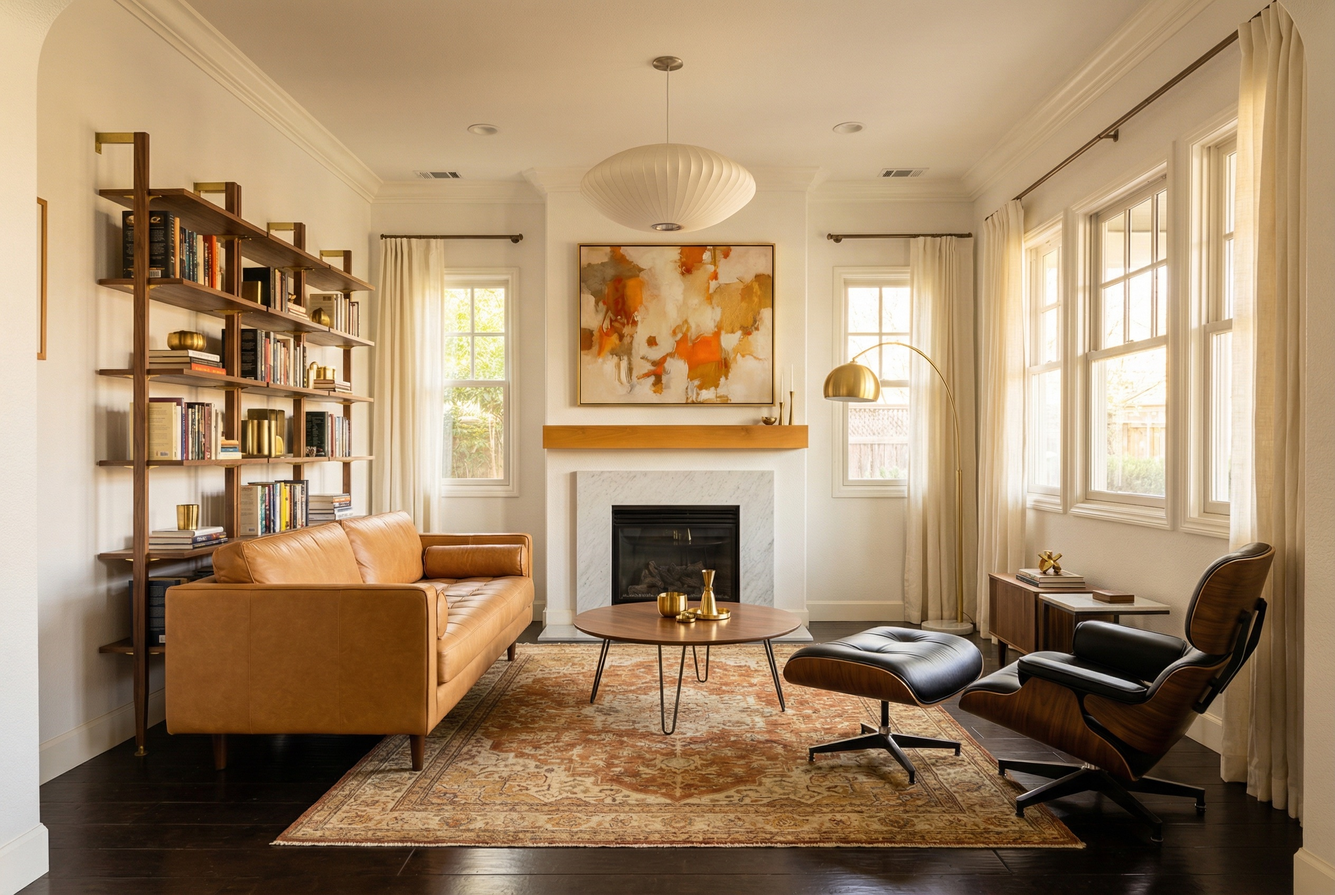
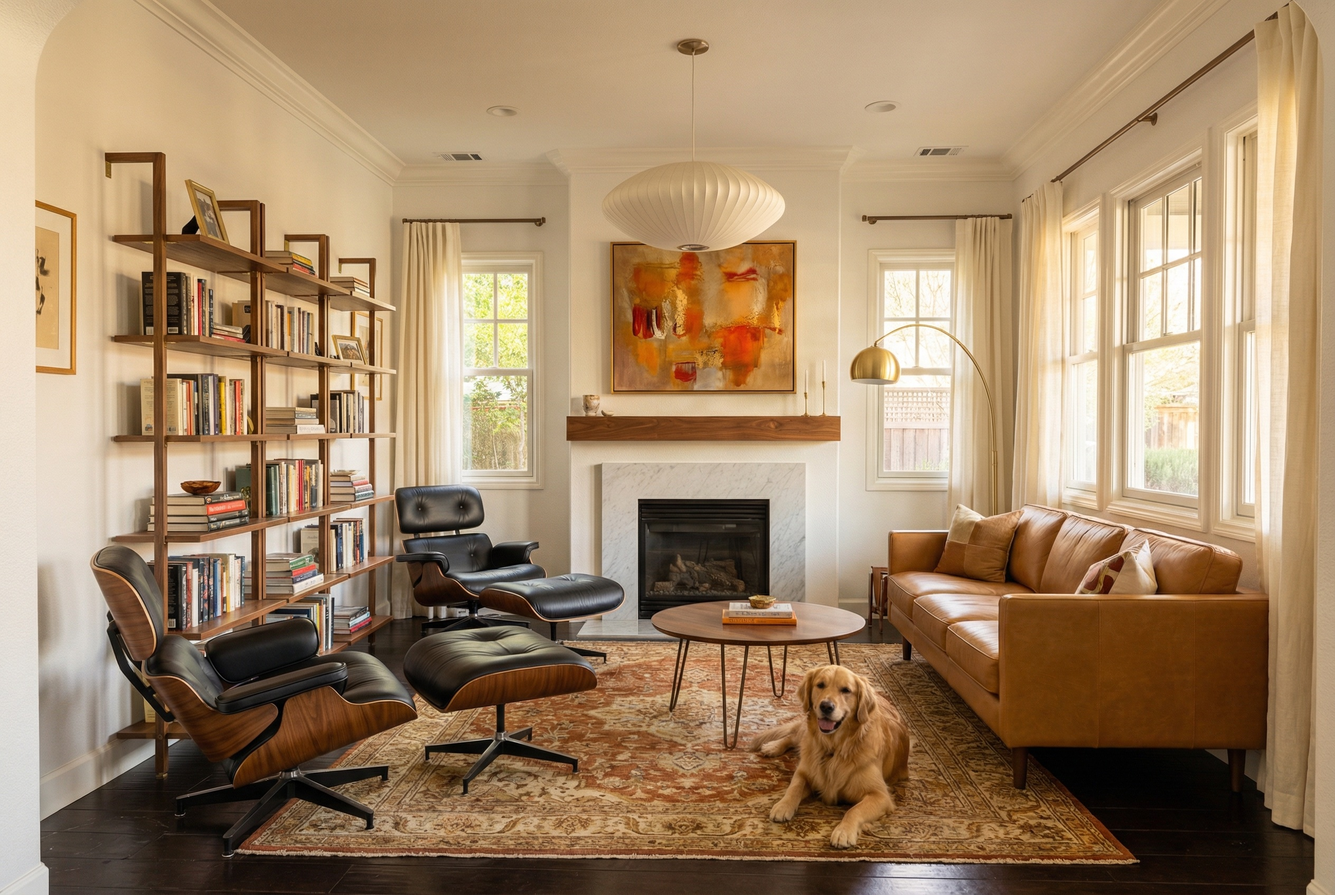
Add Cooper the golden retriever to all redesign concepts
Regenerated all 4 interior design images to include Cooper in each scene.
Updated descriptions and prompts to reflect his presence.

diff --git a/index.html b/index.html
@@ -258,11 +258,11 @@
         <div class="concept-details">
             <div>
                 <h3>Design Goals</h3>
-                <p>Transform the room into a warm, sophisticated space inspired by the 1950s&ndash;60s design movement. The focus is on rich natural materials&mdash;walnut wood, camel leather, and brass&mdash;paired with warm earth-toned textiles. The iconic Eames lounge chair becomes the statement piece, while a Nelson Bubble pendant replaces the existing fixture. Open walnut shelving creates a more curated, gallery-like feel. The overall palette shifts from cool grays to warm golds, rusts, and cognacs, making the room feel like a timeless retreat.</p>
+                <p>Transform the room into a warm, sophisticated space inspired by the 1950s&ndash;60s design movement. The focus is on rich natural materials&mdash;walnut wood, camel leather, and brass&mdash;paired with warm earth-toned textiles. The iconic Eames lounge chair becomes the statement piece, while a Nelson Bubble pendant replaces the existing fixture. Open walnut shelving creates a more curated, gallery-like feel. The overall palette shifts from cool grays to warm golds, rusts, and cognacs, with Cooper lounging happily by the fireplace on a vintage Persian rug.</p>
             </div>
             <div>
                 <h3>Prompt Used</h3>
-                <div class="prompt-text">Redesign this living room in a warm mid-century modern style. The room has the same layout and architecture - dark hardwood floors, marble fireplace with wood mantel, bay windows with crown molding, and a large bookshelf wall on the left. Replace the gray sofa with a rich camel-colored leather sofa with clean lines and tapered walnut legs. Swap the dark blue wingback chair for a classic Eames-style lounge chair and ottoman in walnut shell with black leather cushions. Replace the Moroccan shag rug with a vintage Persian rug in warm rust, gold, and cream tones. Update the bookshelf to beautiful open walnut wood shelving with brass bracket accents. Replace the chandelier with a large Nelson Bubble pendant lamp. Add warm brass accents - a brass arc floor lamp, brass picture frames. Keep the marble fireplace, hang a large colorful abstract painting in warm oranges and golds above the mantel. Add a larger round walnut coffee table with hairpin legs. Warm, inviting afternoon golden light streaming through windows with cream linen curtains. No people or pets. Photorealistic interior design photography, wide angle lens, warm color temperature.</div>
+                <div class="prompt-text">Redesign this living room in a warm mid-century modern style. The room has the same layout and architecture - dark hardwood floors, marble fireplace with wood mantel, bay windows with crown molding, and a large bookshelf wall on the left. Replace the gray sofa with a rich camel-colored leather sofa with clean lines and tapered walnut legs. Swap the dark blue wingback chair for a classic Eames-style lounge chair and ottoman in walnut shell with black leather cushions. Replace the Moroccan shag rug with a vintage Persian rug in warm rust, gold, and cream tones. Update the bookshelf to beautiful open walnut wood shelving with brass bracket accents. Replace the chandelier with a large Nelson Bubble pendant lamp. Add warm brass accents - a brass arc floor lamp, brass picture frames. Keep the marble fireplace, hang a large colorful abstract painting in warm oranges and golds above the mantel. Add a larger round walnut coffee table with hairpin legs. A beautiful golden retriever is lounging happily on the rug near the fireplace, looking relaxed and content. Warm, inviting afternoon golden light streaming through windows with cream linen curtains. Photorealistic interior design photography, wide angle lens, warm color temperature.</div>
             </div>
         </div>
     </article>
@@ -274,11 +274,11 @@
         <div class="concept-details">
             <div>
                 <h3>Design Goals</h3>
-                <p>Strip the room back to its essentials and let the beautiful architecture speak for itself. Inspired by Nordic design principles of light, simplicity, and function, this concept replaces all heavy furnishings with light oak wood pieces and clean-lined upholstery in soft neutral tones. The bookshelf becomes an exercise in restraint&mdash;curated to just a few meaningful objects. A single globe pendant replaces the chandelier. The goal is to create a bright, calm sanctuary that feels spacious and serene, with just a touch of green from carefully placed plants.</p>
+                <p>Strip the room back to its essentials and let the beautiful architecture speak for itself. Inspired by Nordic design principles of light, simplicity, and function, this concept replaces all heavy furnishings with light oak wood pieces and clean-lined upholstery in soft neutral tones. The bookshelf becomes an exercise in restraint&mdash;curated to just a few meaningful objects. A single globe pendant replaces the chandelier. Cooper naps peacefully on the sofa, perfectly at home in this bright, calm sanctuary.</p>
             </div>
             <div>
                 <h3>Prompt Used</h3>
-                <div class="prompt-text">Redesign this living room in a clean Scandinavian minimalist style, keeping the same room architecture and layout - the arched doorway on the left, bay windows on the right, fireplace centered on the back wall. Replace the gray sofa with a lighter warm-gray linen sofa with slim Scandinavian wooden legs. Replace the wingback chair with a light natural oak and white boucle lounge chair in a Hans Wegner style. Swap the Moroccan shag rug for a simple flat-weave rug in soft cream with subtle pale gray geometric lines. Replace the IKEA cube bookshelf with a sleek open light oak bookshelf with minimal curated objects - a few books, a white ceramic vase, a small plant. Replace the chandelier with a single large white matte globe pendant light. Add a round light oak coffee table. Keep the white walls bright and clean. Keep the marble fireplace, replace the art with a simple large botanical line drawing in a thin black frame. Add a few carefully placed green plants - a monstera in a white ceramic pot, a trailing plant on the shelf. Sheer white linen curtains letting in maximum light. No people or pets. The room should feel bright, airy, calm, and intentionally minimal. Photorealistic interior design photography, wide angle lens, bright natural daylight, cool Nordic light.</div>
+                <div class="prompt-text">Redesign this living room in a clean Scandinavian minimalist style, keeping the same room architecture and layout - the arched doorway on the left, bay windows on the right, fireplace centered on the back wall. Replace the gray sofa with a lighter warm-gray linen sofa with slim Scandinavian wooden legs. Replace the wingback chair with a light natural oak and white boucle lounge chair in a Hans Wegner style. Swap the Moroccan shag rug for a simple flat-weave rug in soft cream with subtle pale gray geometric lines. Replace the IKEA cube bookshelf with a sleek open light oak bookshelf with minimal curated objects - a few books, a white ceramic vase, a small plant. Replace the chandelier with a single large white matte globe pendant light. Add a round light oak coffee table. Keep the white walls bright and clean. Keep the marble fireplace, replace the art with a simple large botanical line drawing in a thin black frame. Add a few carefully placed green plants - a monstera in a white ceramic pot, a trailing plant on the shelf. Sheer white linen curtains letting in maximum light. A golden retriever is curled up comfortably on the sofa, napping peacefully. The room should feel bright, airy, calm, and intentionally minimal. Photorealistic interior design photography, wide angle lens, bright natural daylight, cool Nordic light.</div>
             </div>
         </div>
     </article>
@@ -290,11 +290,11 @@
         <div class="concept-details">
             <div>
                 <h3>Design Goals</h3>
-                <p>Lean hard into the room&rsquo;s existing bookshelf wall and fireplace to create a dramatic, enveloping library atmosphere. Deep navy walls and matching built-in shelving filled with leather-bound books create an immersive cocoon of color. An emerald green velvet Chesterfield sofa and burgundy armchair bring rich jewel tones, while brass accents&mdash;chandelier, sconces, side tables&mdash;add warmth and glamour. Thick velvet curtains and warm pool lighting make this the ultimate evening retreat for reading, conversation, or a whiskey by the fire.</p>
+                <p>Lean hard into the room&rsquo;s existing bookshelf wall and fireplace to create a dramatic, enveloping library atmosphere. Deep navy walls and matching built-in shelving filled with leather-bound books create an immersive cocoon of color. An emerald green velvet Chesterfield sofa and burgundy armchair bring rich jewel tones, while brass accents&mdash;chandelier, sconces, side tables&mdash;add warmth and glamour. Cooper sits regally by the fireplace, bathed in warm light, completing the ultimate evening retreat for reading, conversation, or a whiskey by the fire.</p>
             </div>
             <div>
                 <h3>Prompt Used</h3>
-                <div class="prompt-text">Redesign this living room as a dramatic, moody library lounge, keeping the same room architecture and layout - arched doorway on left, bay windows on right, centered fireplace. Paint all walls a deep rich navy blue. Keep and expand the built-in bookshelves but paint them to match the dark navy walls, filled with leather-bound books, antique globes, and decorative brass objects. Replace the sofa with a deep emerald green velvet Chesterfield sofa with tufted buttons and rolled arms. Replace the wingback chair with a rich burgundy velvet armchair with brass nail-head trim. Add dark walnut and brass side tables. Replace the rug with a rich dark antique Persian rug in deep reds, navy, and gold. Replace the chandelier with a dramatic vintage brass and glass chandelier with warm Edison bulbs. Add brass wall sconces flanking the fireplace. Keep the marble fireplace surround, add a large moody oil landscape painting in an ornate gilt frame above it. Thick dark navy velvet curtains on the windows, partially drawn. Warm dramatic evening lighting with pools of warm golden light from table lamps. A crystal whiskey decanter on the side table. No people or pets. Photorealistic interior design photography, warm dramatic lighting, shot on medium format camera.</div>
+                <div class="prompt-text">Redesign this living room as a dramatic, moody library lounge, keeping the same room architecture and layout - arched doorway on left, bay windows on right, centered fireplace. Paint all walls a deep rich navy blue. Keep and expand the built-in bookshelves but paint them to match the dark navy walls, filled with leather-bound books, antique globes, and decorative brass objects. Replace the sofa with a deep emerald green velvet Chesterfield sofa with tufted buttons and rolled arms. Replace the wingback chair with a rich burgundy velvet armchair with brass nail-head trim. Add dark walnut and brass side tables. Replace the rug with a rich dark antique Persian rug in deep reds, navy, and gold. Replace the chandelier with a dramatic vintage brass and glass chandelier with warm Edison bulbs. Add brass wall sconces flanking the fireplace. Keep the marble fireplace surround, add a large moody oil landscape painting in an ornate gilt frame above it. Thick dark navy velvet curtains on the windows, partially drawn. Warm dramatic evening lighting with pools of warm golden light from table lamps. A golden retriever is sitting regally next to the fireplace, bathed in the warm glow of the fire, looking distinguished. Warm dramatic evening lighting with pools of warm golden light from table lamps. A crystal whiskey decanter on the side table. Photorealistic interior design photography, warm dramatic lighting, shot on medium format camera.</div>
             </div>
         </div>
     </article>
@@ -306,11 +306,11 @@
         <div class="concept-details">
             <div>
                 <h3>Design Goals</h3>
-                <p>Bring the relaxed, sun-drenched energy of California indoor-outdoor living into the space. Natural and organic materials take center stage&mdash;rattan, jute, live-edge wood, woven textiles, and clay. The room becomes a botanical sanctuary with lush indoor plants throughout. Earth tones of terracotta, amber, olive, and cream replace the current cool palette. A rattan peacock chair and woven pendant light add sculptural interest, while layered rugs and oversized linen cushions create an inviting, lived-in comfort. The goal is a space that feels like a warm embrace&mdash;relaxed, creative, and deeply personal.</p>
+                <p>Bring the relaxed, sun-drenched energy of California indoor-outdoor living into the space. Natural and organic materials take center stage&mdash;rattan, jute, live-edge wood, woven textiles, and clay. The room becomes a botanical sanctuary with lush indoor plants throughout. Earth tones of terracotta, amber, olive, and cream replace the current cool palette. Cooper stretches out in a sunbeam on the jute rug, perfectly embodying the relaxed California vibe. A rattan peacock chair and woven pendant light add sculptural interest, while layered rugs and oversized linen cushions create an inviting, lived-in comfort.</p>
             </div>
             <div>
                 <h3>Prompt Used</h3>
-                <div class="prompt-text">Redesign this living room in a California bohemian organic modern style, keeping the same room architecture and layout - arched doorway on left, bay windows on right, centered fireplace with marble surround and wood mantel. Replace the gray sofa with a deep cream off-white linen sofa with oversized cushions and a relaxed lived-in look, draped with a terracotta-colored woven throw blanket. Replace the wingback chair with a large natural rattan peacock chair with a white sheepskin throw. Swap the Moroccan rug for a large natural jute rug layered with a smaller vintage Turkish kilim in warm earth tones - terracotta, amber, olive. Replace the IKEA bookshelf with open rattan and light wood shelving filled with ceramics, trailing pothos plants, woven baskets, and artisan pottery. Add many lush indoor plants throughout - a large fiddle leaf fig tree in a woven basket planter in the corner, hanging trailing plants, potted snake plants, a cluster of succulents on the coffee table. Replace the coffee table with a live-edge wood slab coffee table on a black iron base. Replace the chandelier with a large woven rattan pendant light. Keep the fireplace, place dried pampas grass arrangement in a clay vase on the mantel. Warm terracotta and mustard throw pillows. Woven wall hanging on one wall. Bright airy natural California sunlight streaming in. No people or pets. Photorealistic interior design photography, warm golden natural light, wide angle lens.</div>
+                <div class="prompt-text">Redesign this living room in a California bohemian organic modern style, keeping the same room architecture and layout - arched doorway on left, bay windows on right, centered fireplace with marble surround and wood mantel. Replace the gray sofa with a deep cream off-white linen sofa with oversized cushions and a relaxed lived-in look, draped with a terracotta-colored woven throw blanket. Replace the wingback chair with a large natural rattan peacock chair with a white sheepskin throw. Swap the Moroccan rug for a large natural jute rug layered with a smaller vintage Turkish kilim in warm earth tones - terracotta, amber, olive. Replace the IKEA bookshelf with open rattan and light wood shelving filled with ceramics, trailing pothos plants, woven baskets, and artisan pottery. Add many lush indoor plants throughout - a large fiddle leaf fig tree in a woven basket planter in the corner, hanging trailing plants, potted snake plants, a cluster of succulents on the coffee table. Replace the coffee table with a live-edge wood slab coffee table on a black iron base. Replace the chandelier with a large woven rattan pendant light. Keep the fireplace, place dried pampas grass arrangement in a clay vase on the mantel. A golden retriever is lying stretched out on the jute rug in a sunbeam, looking happy and relaxed. Warm terracotta and mustard throw pillows. Woven wall hanging on one wall. Bright airy natural California sunlight streaming in. Photorealistic interior design photography, warm golden natural light, wide angle lens.</div>
             </div>
         </div>
     </article>
